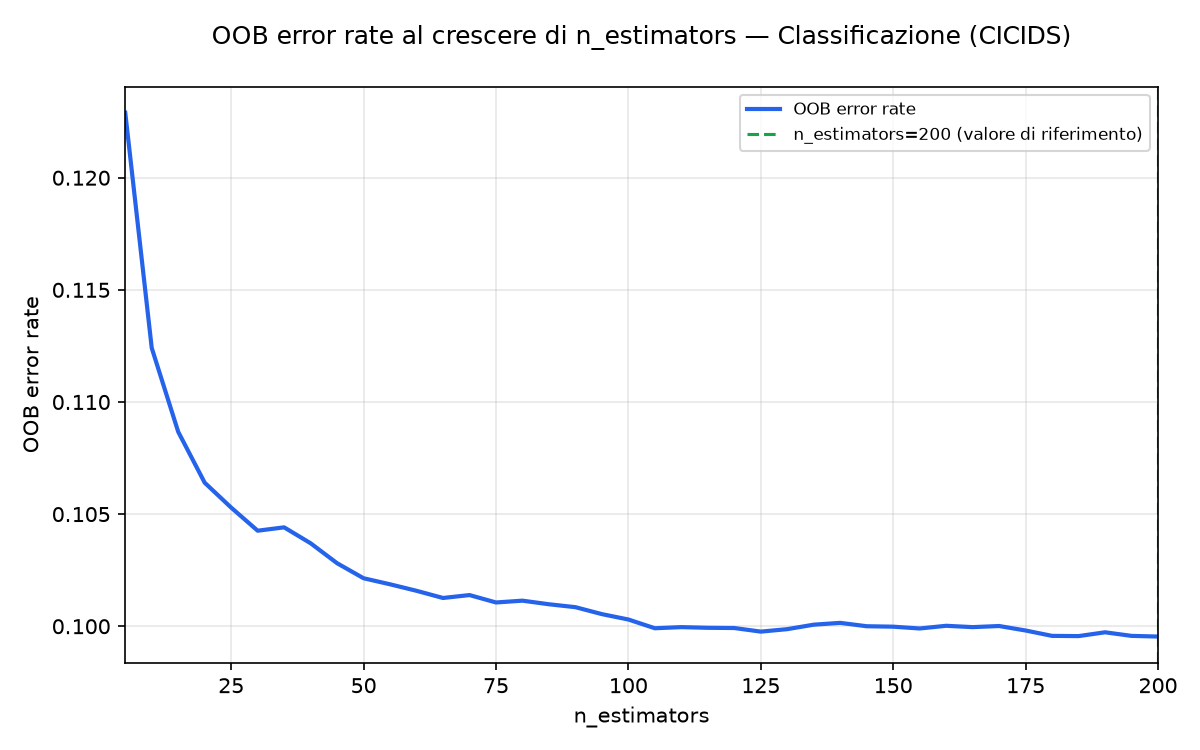
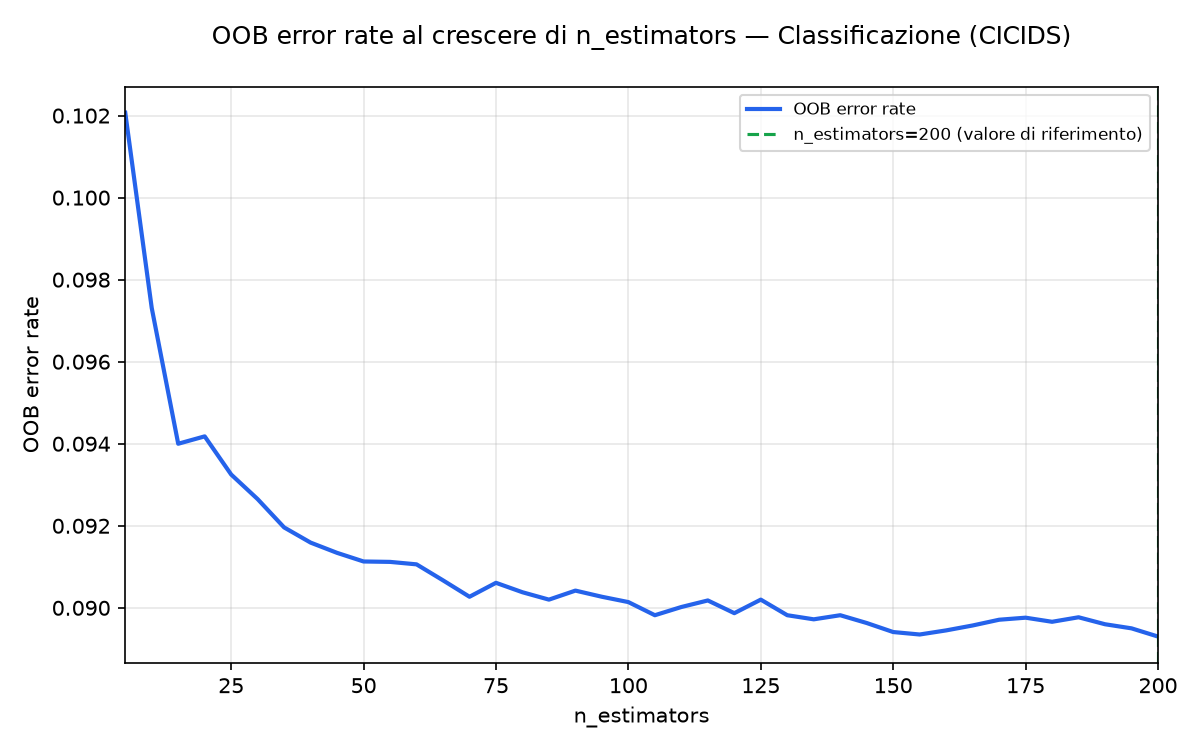
Aggiornati i file di output e migliorata la gestione delle varianti nei grafici

diff --git a/src/testing/plot_generator.py b/src/testing/plot_generator.py
@@ -469,7 +469,8 @@ class PlotGenerator:
 
         def sort_key(r):
             trees = self._trees_per_scale(r) or 0
-            return (self.ENV_PRIORITY.index(r["env"]), trees, r["file"])
+            variant = self._variant_tag_from_filename(r["file"], trees)
+            return (self.ENV_PRIORITY.index(r["env"]), trees, r.get("mode") or "", variant, r["file"])
 
         return sorted(candidates, key=sort_key)
 
@@ -480,10 +481,26 @@ class PlotGenerator:
         e' l'informazione che conta davvero (e' cio' che rende due run non
         confrontabili); se non e' deducibile dalla scenario_description si
         ripiega su ambiente + nome file, che restano comunque univoci.
+
+        Include ANCHE la modalita' (federated/centralized), se nota, e il tag
+        di variante generico ricavato dal nome del file: due run con lo
+        stesso numero di alberi ma modalita' o esperimento diversi (es.
+        '..._federato_200_alberi.json' vs '..._centralizzato_200_alberi.json',
+        oppure '..._shared_200_alberi.json' vs '..._sharded_200_alberi.json')
+        devono restare distinguibili nel nome del PNG, anche se quella parola
+        NON compare di nuovo nel sottotitolo (vedi _variant_label, che la
+        toglie apposta per non ripeterla lì).
         """
         trees = self._trees_per_scale(run)
         if trees:
-            return f"{trees}_alberi"
+            suffix = f"{trees}_alberi"
+            mode = run.get("mode")
+            if mode and mode != "unknown":
+                suffix += f"_{mode}"
+            variant = self._variant_tag_from_filename(run["file"], trees)
+            if variant:
+                suffix += f"_{variant}"
+            return suffix
         return f"{run['env']}_{os.path.splitext(run['file'])[0]}"
 
     @staticmethod
@@ -1152,10 +1169,19 @@ class PlotGenerator:
         # configurazioni testate sono 1,3,5,7 e non vanno interpolate con 2,4,6.
         ax.set_xticks(workers)
         ax.set_xticklabels([str(int(w)) for w in workers])
-        ceiling_values = [float(totals.max())] + reference_values
-        if instrumented and all(v is not None for v in only):
+        # L'asse Y si dimensiona solo su cio' che e' EFFETTIVAMENTE disegnato
+        # (curva "soli alberi" + riferimenti baseline): 'totals' (tempo
+        # totale) non e' piu' plottato, quindi non deve piu' influenzare la
+        # scala, o il grafico si allarga per fare spazio a una curva invisibile.
+        only_drawn = instrumented and all(v is not None for v in only)
+        ceiling_values = list(reference_values)
+        if only_drawn:
             ceiling_values.append(float(np.array(only, dtype=float).max()))
-        ceiling = max(ceiling_values)
+        else:
+            # Nessuna curva disegnata a parte i riferimenti: usiamo 'totals'
+            # solo come ripiego per non lasciare l'asse vuoto.
+            ceiling_values.append(float(totals.max()))
+        ceiling = max(ceiling_values) if ceiling_values else 1.0
         ax.set_ylim(0, ceiling * 1.22)
         ax.legend(loc="upper right")
         ax.set_axisbelow(True)
@@ -1163,6 +1189,9 @@ class PlotGenerator:
         subtitle = self._env_subtitle(run)
         if trees:
             subtitle += f" - carico fisso di {trees} alberi"
+        variant = self._variant_label(run)
+        if variant:
+            subtitle += f" ({variant})"
         self._titles(fig, ax, "Strong scaling: tempo di addestramento a carico costante", subtitle)
         self._footnote(fig, "Il divario fra curva misurata e curva ideale e' l'overhead "
                             "distribuito: parte seriale (ETL, aggregazione, OOB) piu' costo "
@@ -1179,6 +1208,40 @@ class PlotGenerator:
             if token.isdigit():
                 return int(token)
         return None
+
+    @staticmethod
+    def _variant_tag_from_filename(filename: str, trees=None) -> str:
+        """
+        Estrae dal nome del file cio' che lo distingue da altri file con lo
+        STESSO numero di alberi: si tolgono le parole di servizio ('test',
+        'report', 'scalability'/'scalabilita'', 'alberi'), l'estensione e il
+        numero di alberi stesso (gia' rappresentato altrove nel suffisso).
+
+        Serve a evitare che file con carico identico ma esperimento diverso -
+        es. 'test_scalability_shared_200_alberi.json' e
+        'test_scalability_sharded_200_alberi.json' - producano lo stesso nome
+        di grafico ('sdcc_01_strong_scaling_200_alberi.png'), col secondo file
+        processato che sovrascrive silenziosamente i grafici del primo.
+        """
+        stem = os.path.splitext(os.path.basename(filename))[0].lower()
+        boilerplate = {"test", "report", "scalability", "scalabilita", "alberi", "tree", "trees",
+                       # Gia' mostrate nel sottotitolo da _env_subtitle() tramite
+                       # _infer_mode_from_filename(): includerle anche nel tag di
+                       # variante le farebbe comparire due volte nello stesso titolo.
+                       "centralized", "centralizzato", "federated", "federato"}
+        kept = []
+        for token in stem.split("_"):
+            if not token or token in boilerplate:
+                continue
+            if token.isdigit() and trees is not None and int(token) == int(trees):
+                continue
+            kept.append(token)
+        return "_".join(kept)
+
+    def _variant_label(self, run) -> str:
+        """Etichetta leggibile della variante, per i sottotitoli dei grafici (vuota se non distinguibile)."""
+        variant = self._variant_tag_from_filename(run["file"], self._trees_per_scale(run))
+        return variant.replace("_", " ") if variant else ""
 
     def plot_speedup_and_efficiency(self):
         """
@@ -1250,6 +1313,9 @@ class PlotGenerator:
         subtitle = self._env_subtitle(run)
         if trees:
             subtitle += f" - carico fisso di {trees} alberi"
+        variant = self._variant_label(run)
+        if variant:
+            subtitle += f" ({variant})"
         fig.suptitle(f"Scalabilita' del sistema distribuito - {subtitle}",
                      fontsize=14, fontweight="bold", y=1.0)
         self._save(fig, f"sdcc_02_speedup_efficienza_{suffix}.png")
@@ -1338,7 +1404,9 @@ class PlotGenerator:
                    for p in phases]
         fig.legend(handles=handles, loc="lower center", ncol=3, bbox_to_anchor=(0.5, -0.14),
                    frameon=True)
-        fig.suptitle(f"Scomposizione del tempo di addestramento - {self._env_subtitle(run)}",
+        variant = self._variant_label(run) if run else ""
+        breakdown_subtitle = self._env_subtitle(run) + (f" ({variant})" if variant else "")
+        fig.suptitle(f"Scomposizione del tempo di addestramento - {breakdown_subtitle}",
                      fontsize=14, fontweight="bold", y=1.0)
         self._footnote(fig, "Solo la fascia blu si riduce all'aumentare dei worker: le fasi "
                             "seriali restano pressoche' costanti e, crescendo in quota "
@@ -1426,6 +1494,9 @@ class PlotGenerator:
         subtitle = self._env_subtitle(run)
         if trees:
             subtitle += f" - carico fisso di {trees} alberi"
+        variant = self._variant_label(run)
+        if variant:
+            subtitle += f" ({variant})"
         fig.suptitle(f"Throughput del sistema distribuito - {subtitle}",
                      fontsize=14, fontweight="bold", y=1.0)
 

diff --git a/src/baseline/analyze_n_estimators.py b/src/baseline/analyze_n_estimators.py
@@ -118,7 +118,7 @@ DEFAULT_GRID = list(range(MIN_ESTIMATORS, MAX_ESTIMATORS + 1, STEP_ESTIMATORS))
 # CLASSIFICAZIONE -- dataset reale CICIDS
 # ---------------------------------------------------------------------------
 CLF_TARGET_COL = "Label"
-CLF_TARGET_ROWS_PER_DAY = 100_000  # stesso valore di run_baseline.py
+CLF_TARGET_ROWS_PER_DAY = 200_000  # stesso valore di run_baseline.py
 CLF_UNDERSAMPLING_RATIO = 1.0
 CLF_CONFIG_PATH = os.path.join("outputs_baseline", "config_real.json")
 CLF_DIAGNOSTIC_SUBSAMPLE_SIZE = 100_000
